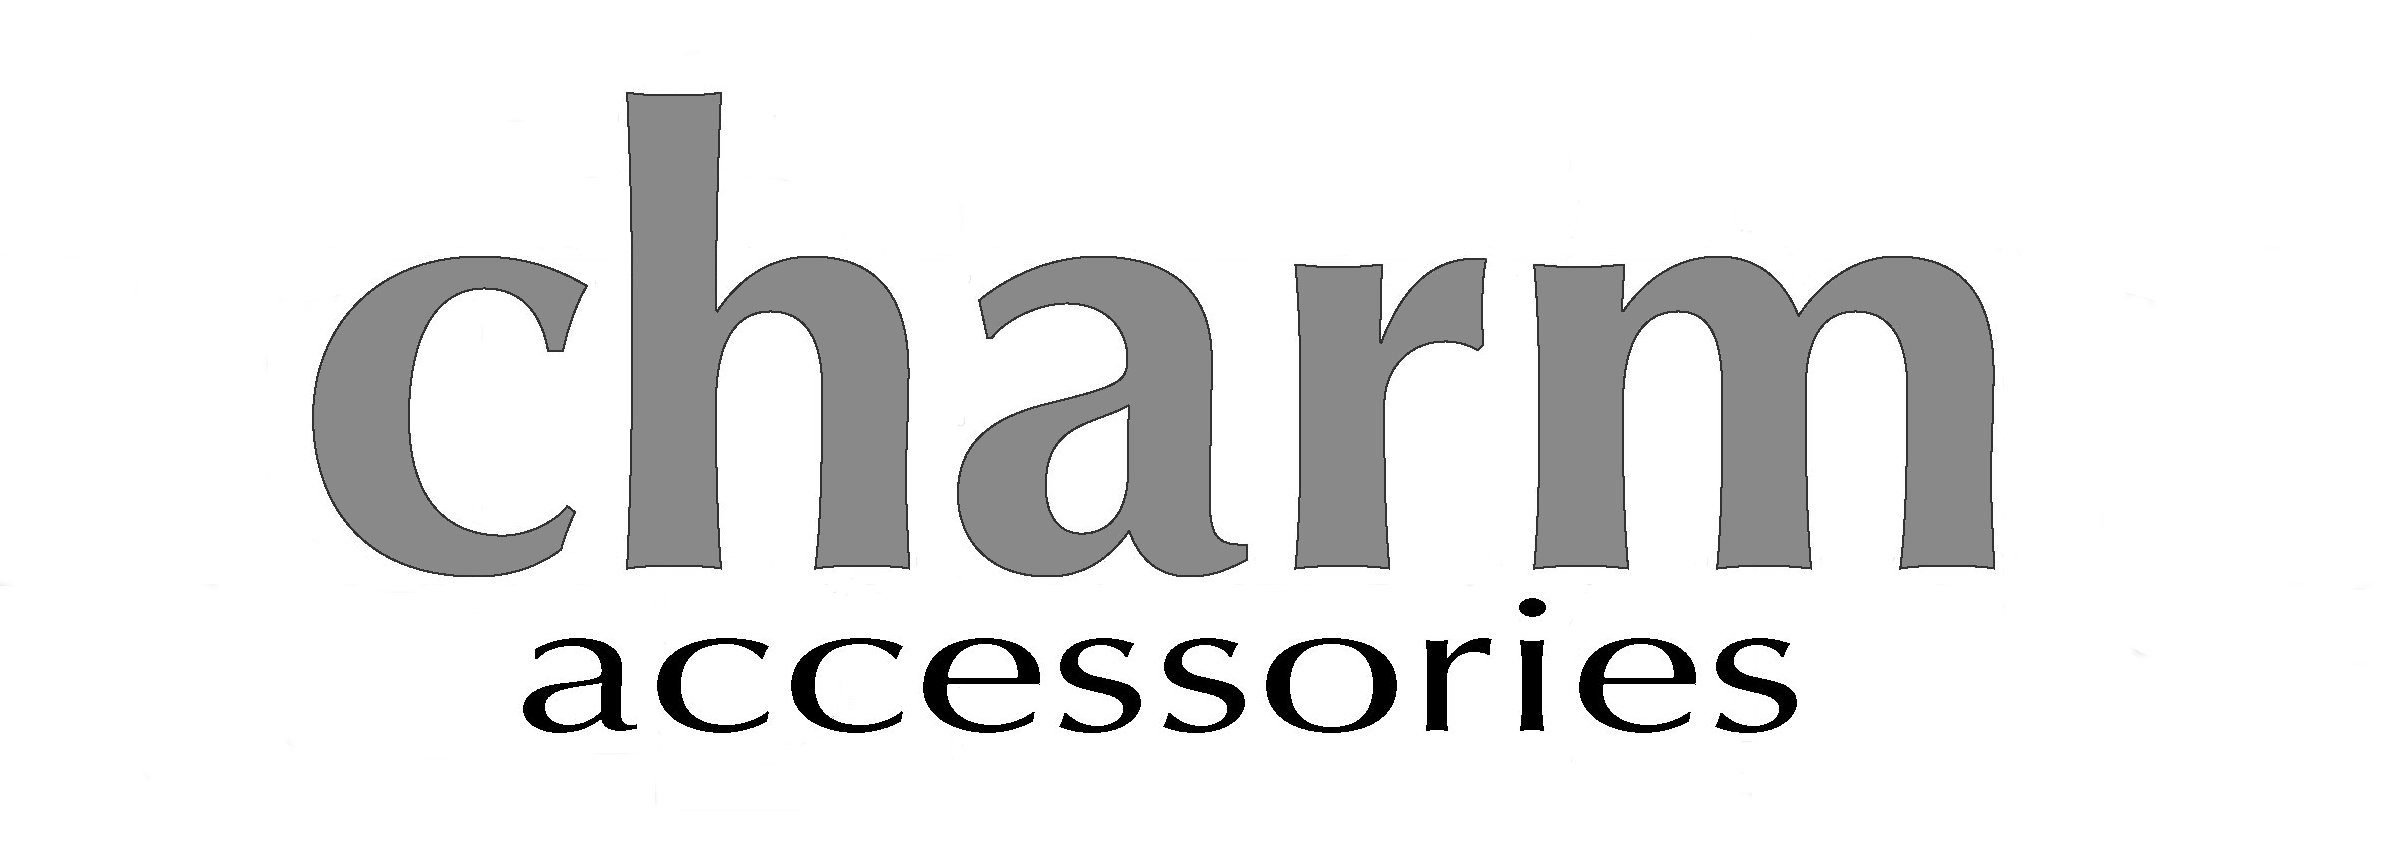
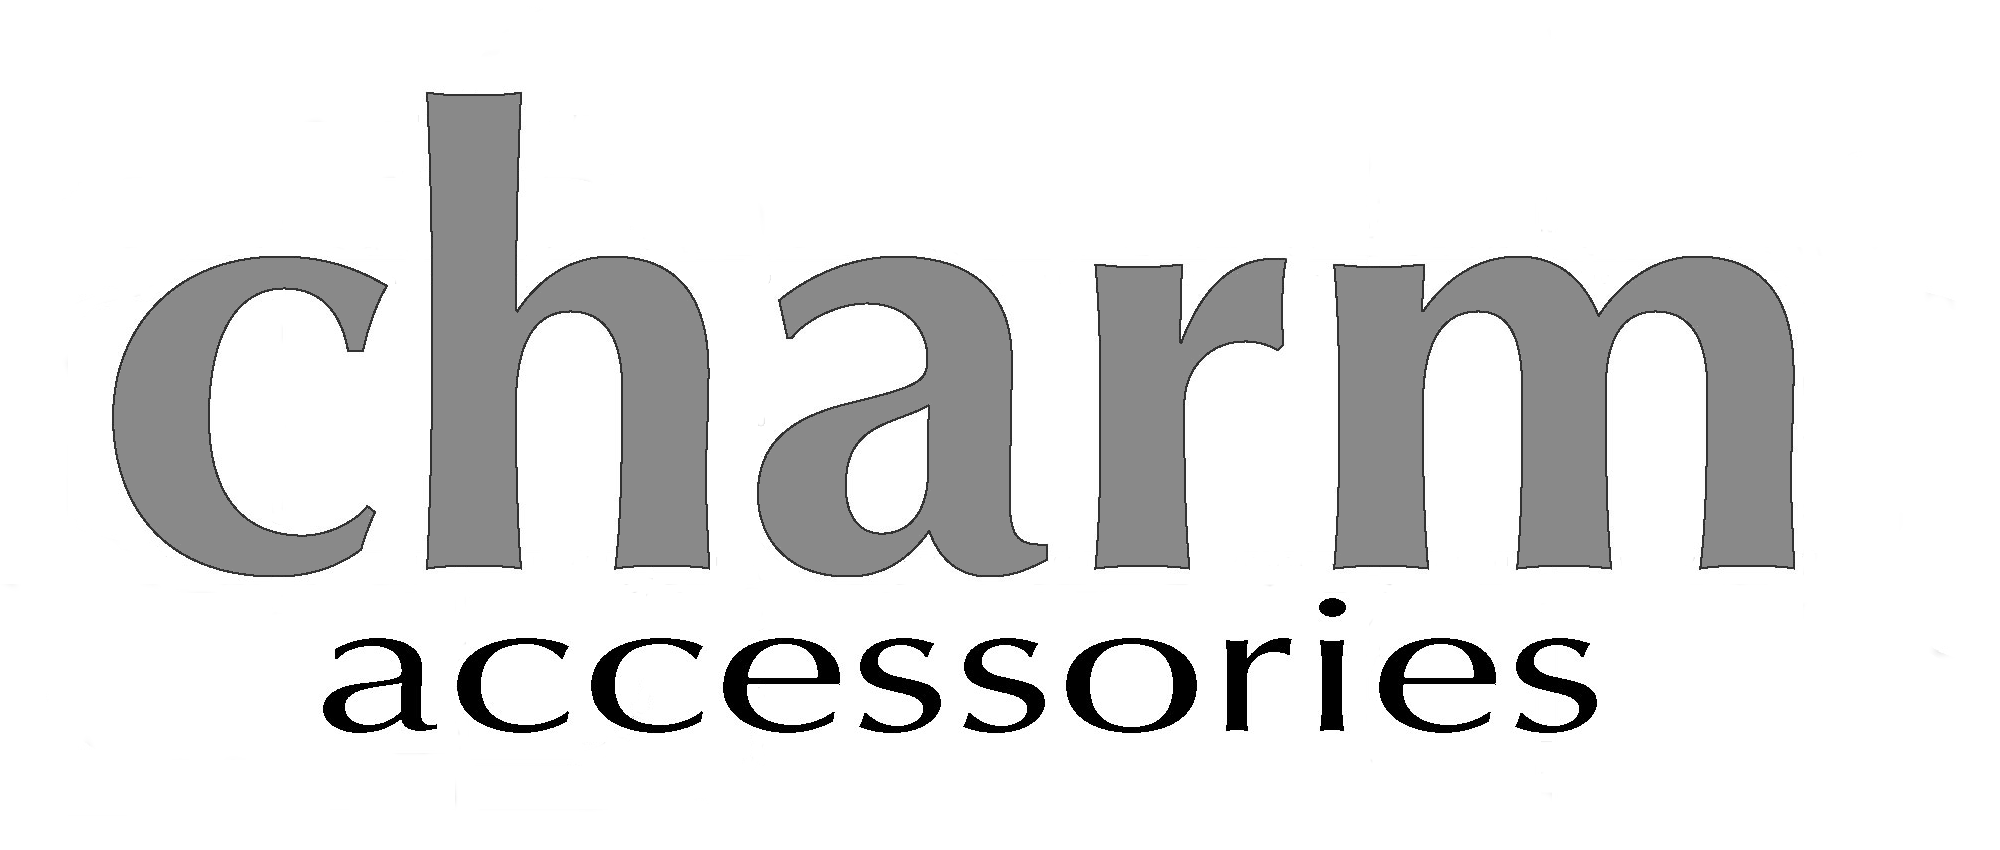
update images carousel and brand

diff --git a/app/ui/header.tsx b/app/ui/header.tsx
@@ -15,8 +15,25 @@ export default async function Header() {
         <section className="section">
           <div className="flex">
             <nav className='flex-item-home'>
-              <Link href='/'>
+              {/* <Link href='/'>
                 <img src={LOGO} alt="logo" className='img-brand' width="600" height="238"/>
+              </Link> */}  
+              <Link href='/' style={{display: "flex", alignItems: "center"}}>
+                  <img 
+                      src={'brand-icon.png'} 
+                      alt="logo" 
+                      className='img-brand' 
+                      style={{
+                        width: "100px",
+                        height: "100px",
+                      }}
+                    />          
+                <img 
+                  src={'brand-grey.png'} 
+                  alt="logo" 
+                  className='img-brand' 
+                  style={{height: "75px"}}
+                  />
               </Link>
             </nav>
             {/* <button> nav menu hidden for desktop

diff --git a/app/styles/card.css b/app/styles/card.css
@@ -7,7 +7,8 @@
     width: 100%;
     height: auto; 
     object-fit: cover;
-    border: 2px solid #ddd;
+    border: 1px solid #fafafa;
+    filter: brightness(98%);
 }
 
 .card-caption {
